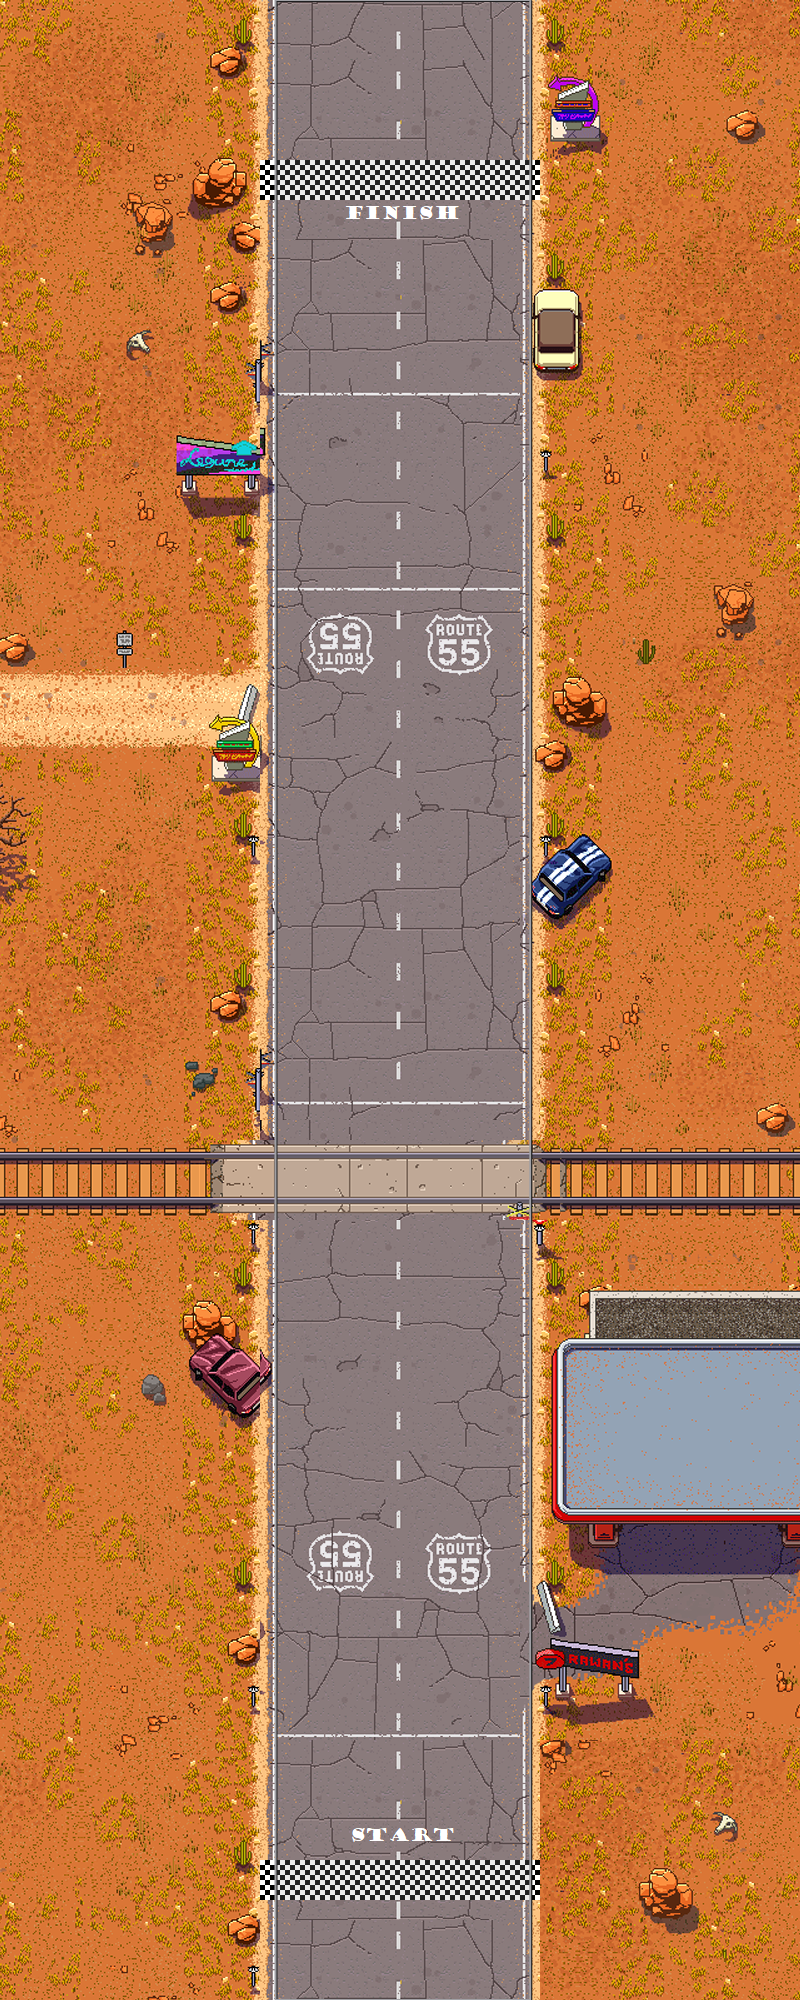
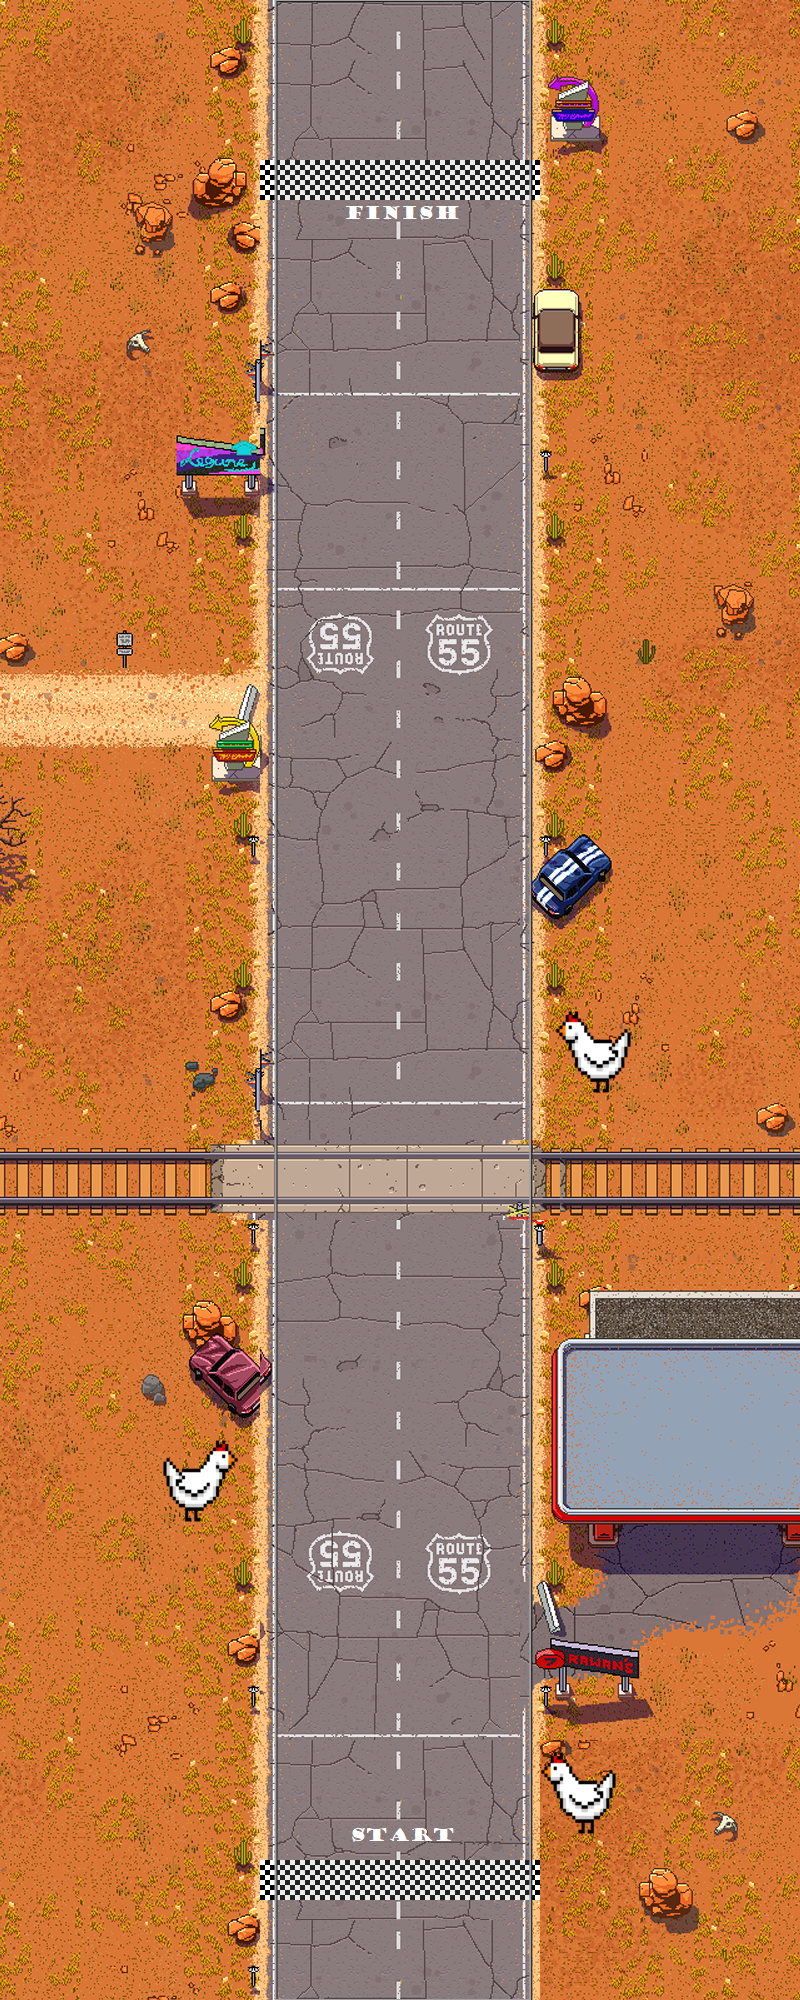
Completed alpha of game

Changed region(s): [[0.1875, 0.713, 0.3125, 0.775], [0.6875, 0.868, 0.7812, 0.93], [0.6875, 0.496, 0.7812, 0.558]]

diff --git a/HW4/index.html b/HW4/index.html
@@ -30,79 +30,79 @@ body
 <body>
 <div id="game"></div>
 <div id="readme">
-<h2>Your game title</h2>
+<h2>Drag Racing</h2>
 
 <ul>
 <li><strong>Originality:</strong>
-What is original about your game?
+The game takes a classic arcade gamemode from the Need for Speed franchise and focuses to make the gameplay quick and simple.
 </li>
 
 <li><strong>Technical Merit:</strong>
-What is interesting about your game technology?
+The use of arcade physics and having the camera follow the player's vehicle through the map.
 </li>
 
 <li><strong>Prototype Postmortem:</strong>
-What did you learn from this prototype?
-What was the easiest or hardest part of making it?
+That Phaser CE examples are a great place to get help and find out solutions to problems. The easiest part was finding assets and making the game look cool, the hard part was figuring out camera movement.
 </li>
 
 <li><strong>Prototype Assets:</strong>
-Did you make your prototype assets from scratch? Did you borrow them? Cite your sources here.
+Majority of my assets were taken from the internet and either had my touch sprinkled onto it, or just blended together.
 <ul>
-<li>Loading screen: self-made</li>
-<li>Puppy image: self-made</li>
+<li>Loading screen: Part of the template</li>
 <li>Button: Phaser example <a href="https://phaser.io/examples/v2/buttons/action-on-click">Action On Click</a></li>
-<li>Bouncing Phaser image: <a href="https://phaser.io/download/logo">Phaser logo</a></li>
-<li>Music: "Poppers and Prosecco" Kevin MacLeod (<a href="incompetech.com">incompetech.com</a>). Licensed under <a href="http://creativecommons.org/licenses/by/3.0/">Creative Commons: By Attribution 3.0 License</a></li>
+<li>Cars image: <a href="https://www.artstation.com/artwork/aeJ59">Car Images</a></li>
+<li>Road Image: <a href="https://www.pinterest.de/pin/413627547018117282/">Road Image</a></li>
+<li>Titlescreen Music: "Poppers and Prosecco" Kevin MacLeod (<a href="incompetech.com">incompetech.com</a>). Licensed under <a href="http://creativecommons.org/licenses/by/3.0/">Creative Commons: By Attribution 3.0 License</a></li>
+<li>Game Music: 0101 Created by yours truly <a href="https://soundcloud.com/dead-channel-465589873">My Sound Cloud</a></li>
+<li>Title and Results Screen background <a href="https://www.behance.net/gallery/6910307/Pixel-Desert">Picture Link</a></li>
 </ul>
 </li>
 
 <li><strong>Prototype Closest Other Game:</strong>
-Which other game most closely resembles your game? If you are borrowing code from a Phaser Example, you must say so here. If you borrow code from elsewhere, you must say so here.
+The game got help from a phaser CE examples, but the gameplay is closest to the Need for Speed Franchise's Drag Racing gamemode, which primarily was in Need for Speed Underground til Need for Speed Most Wanted 2005.
 <ul>
-<li>The code for this example is adapted from the <a href="https://github.com/photonstorm/phaser/tree/v2.6.2/resources/Project%20Templates/Basic">Phaser Basic Project Template</a></li>
+<li>Camera Movements example <a href="https://www.phaser.io/examples/v2/camera/basic-follow"></a></li>
 </ul>
 </li>
 
 <li><strong>High Concept:</strong>
-A one-sentence summary of your game.
+A fast, timed racing game where you and your friend speed down the roadway, 1st place is the only goal.
 </li>
 
 <li><strong>Theme:</strong>
-State which of the Storymatic themes you used.
+Chickens because they're everywhere in the desert.
 </li>
 
 <li><strong>Mandated Variety:</strong>
-State which input, randomness, genre, and play style you used in this prototype.
+I used keyboard input, used the racing game genre. There is no randomness, only skills.
 </li>
 
 <li><strong>Prototype Goal:</strong>
-What game mechanic is this prototype evaluating?
+The main game mechanic I wanted to test was "The Hot Potato" as I wanted the game to force players to not just continuously hold the accelerate button. But that was not implemented yet.
 </li>
 
 <li><strong>Player Experience Goals:</strong>
-What experience do you want players to have when playing your game?
+A fast, fun experience.
 </li>
 
 <li><strong>Gameplay:</strong>
-A paragraph describing the actions the player can perform, the system dynamics, and the core mechanic. Include a concise explanation of the prototype’s inputs and their expected effects (how to play). You can also describe game play that is not in the prototype. You may include mock-up images for parts of the game not in the prototype.
+The player can drive the car forward by pressing W or the Up Arrow Key. I wanted to have a speedometer that showed whether the car was going to overheat when the player held their acceleration key for too long. I also wanted a minimap to show the distance and have the maps much longer.
 </li>
 
 <li><strong>Strategies:</strong>
-What player strategies do you expect will be effective at playing this game?
+Timing and reflexes as the first player to accelerate first wins.
 </li>
 
 <li><strong>Story/Setting/Premise:</strong>
-A paragraph about the world your game is set in and who the characters are. What makes the game world and its occupants unique and interesting? Do the tokens represent something? If the game has a backstory, mention it here. If the game is abstract, then say so.
-How will the dramatic tension interact with the gameplay tension?
+Chickens enjoy watching drag racing, so you and your friends race to entertain them in order to save the world.
 </li>
 
 <li><strong>Target Audience:</strong>
-A single sentence that describes the demographic you're trying to reach.
+To all the racers out there that just want to go fast.
 </li>
 
 <li><strong>Play Time:</strong>
-How long does your game take to play?
+Less than a minute.
 </li>
 
 </ul>

diff --git a/HW4/js/Game.js b/HW4/js/Game.js
@@ -2,9 +2,11 @@
 
 GameStates.makeGame = function( game, shared ) {
     // Create your own variables.
-    var bouncy = null;
+    var car1 = null;
+    var car2 = null;
     var road = null;
     var cursor = null;
+    var key = null;
     var music = null;
     
     function quitGame() {
@@ -29,31 +31,34 @@ GameStates.makeGame = function( game, shared ) {
 	    
 	    game.world.setBounds(0, 0, 800, 2000);
             // Create a sprite at the center of the screen using the 'logo' image.
-	    if ( p1Cnt == 0 ) {
-            	bouncy = game.add.sprite( game.world.centerX, 1800, 'lambo' );
-	    } else {
-		bouncy = game.add.sprite( game.world.centerX, 2000, 'ferr' );
-	    }
+            car1 = game.add.sprite( game.world.centerX, 1800, 'lambo' );
+	    car2 = game.add.sprite( game.world.centerX, 1800, 'ferr' );
 	    // Anchor the sprite at its center, as opposed to its top-left corner.
             // so it will be truly centered.
-            bouncy.anchor.setTo( -0.15, -0.30 );
+	    car1.anchor.setTo( -0.15, -0.30 );
+            car2.anchor.setTo( 1.00, -0.30 );
 
 	    game.physics.startSystem(Phaser.Physics.ARCADE);
             
             // Turn on the arcade physics engine for this sprite.
-  	    game.physics.enable(bouncy, Phaser.Physics.ARCADE);
-	    bouncy.body.drag.set(100);
-    	    bouncy.body.maxVelocity.set(500);
+  	    game.physics.enable(car1, Phaser.Physics.ARCADE);
+	    game.physics.enable(car2, Phaser.Physics.ARCADE);
+	    car1.body.drag.set(100);
+	    car2.body.drag.set(100);
+    	    car1.body.maxVelocity.set(500);
+	    car2.body.maxVelocity.set(500);
 
 	    cursor = game.input.keyboard.createCursorKeys();
+	    key = game.input.keyboard;
             // Make it bounce off of the world bounds.
             
             // Add some text using a CSS style.
             // Center it in X, and position its top 15 pixels from the top of the world.
-            game.camera.follow(bouncy);
+            game.camera.follow(car1);
             
             // When you click on the sprite, you go back to the MainMenu.
-            bouncy.inputEnabled = true;
+            car1.inputEnabled = true;
+	    car2.inputEnabled = true;
         },
     
         update: function () {
@@ -66,14 +71,20 @@ GameStates.makeGame = function( game, shared ) {
             // This function returns the rotation angle that makes it visually match its
             // new trajectory.
             if (cursor.up.isDown) {
-		game.physics.arcade.accelerationFromRotation((3 * 3.141592653589793238462643383279502884197169399375105820974944592307816406286)/2, 900, bouncy.body.acceleration);
+		game.physics.arcade.accelerationFromRotation((3 * 3.141592653589793238462643383279502884197169399375105820974944592307816406286)/2, 900, car1.body.acceleration);
    	    } else {
-        	bouncy.body.acceleration.set(0);
+        	car1.body.acceleration.set(0);
   	    }
-
+	    
+	    if ( key.isDown(Phaser.KeyCode.W) ) {
+		game.physics.arcade.accelerationFromRotation((3 * 3.141592653589793238462643383279502884197169399375105820974944592307816406286)/2, 900, car2.body.acceleration);
+	    } else {
+		car2.body.acceleration.set(0);
+	    }
+	    
 	    if ( cursor.down.isDown ) {
 		quitGame();
 	    }
-        }
+	}
     };
 };
